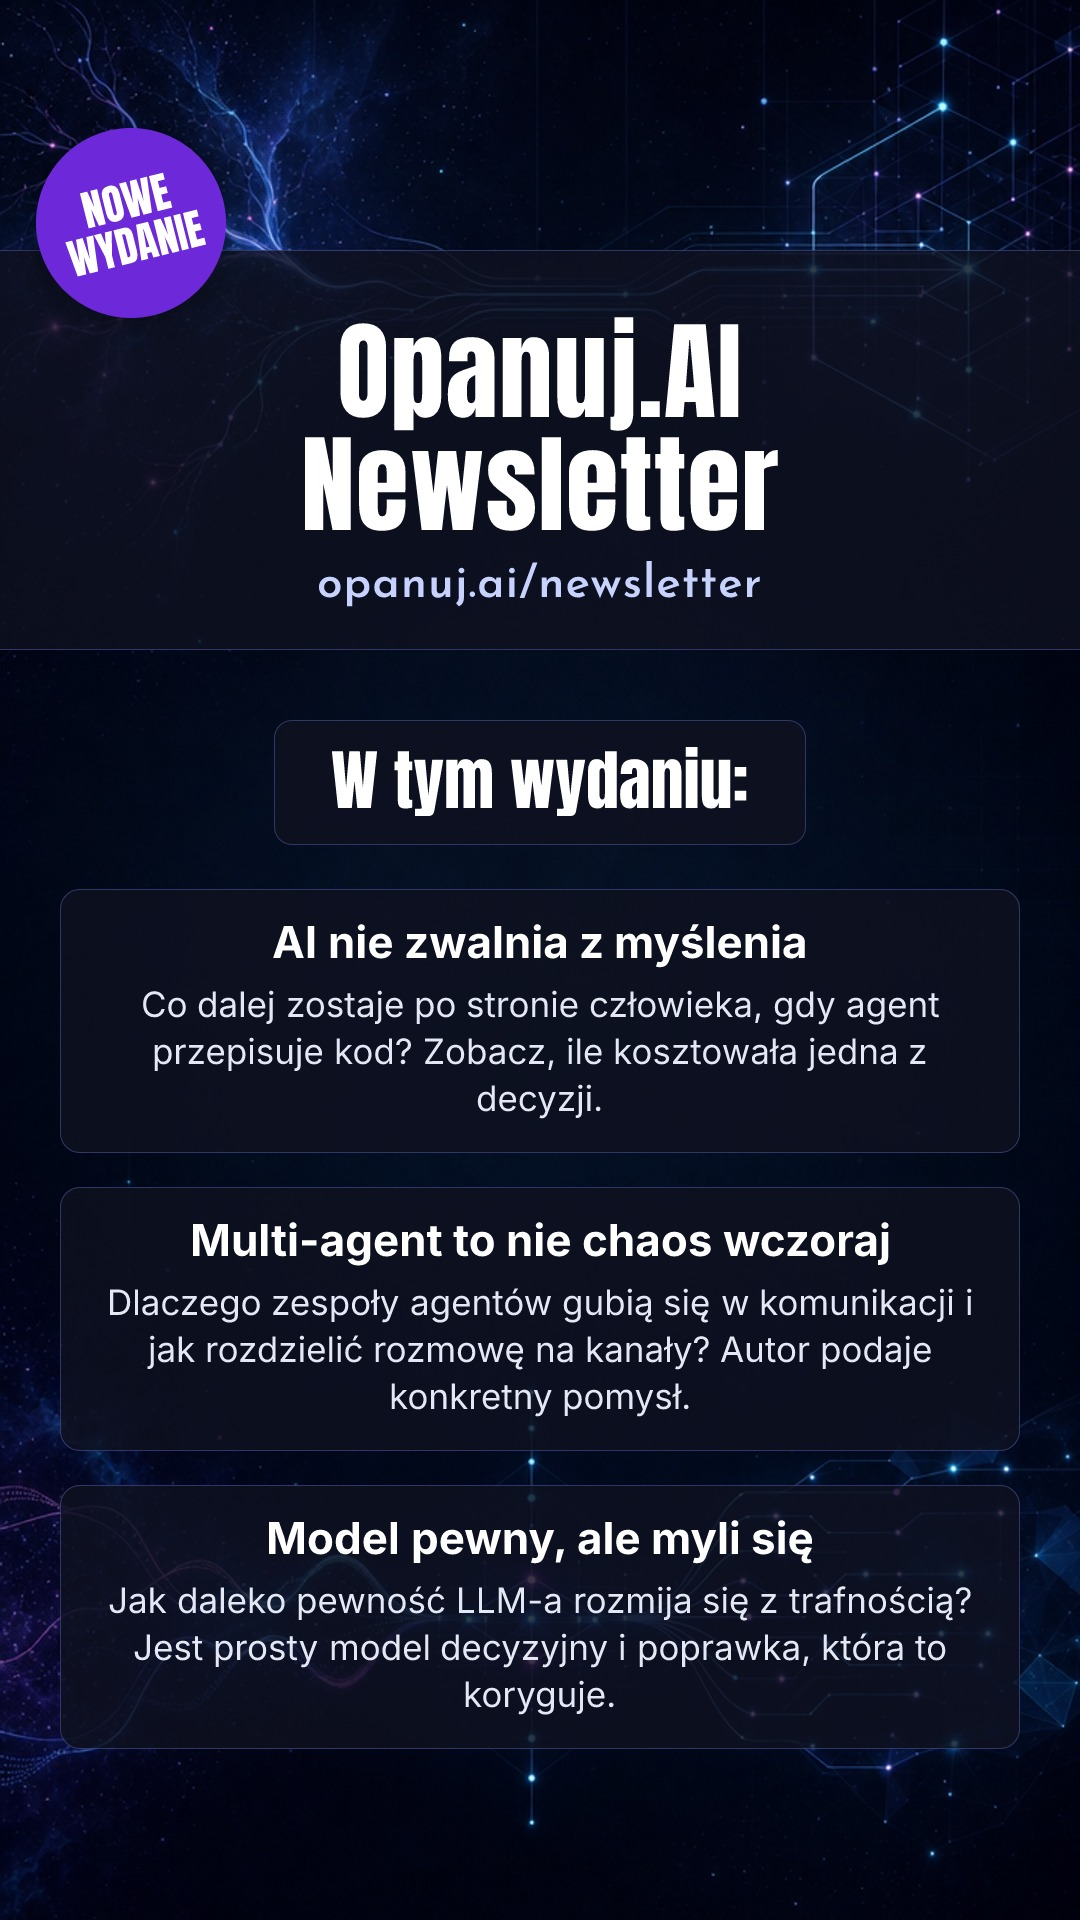
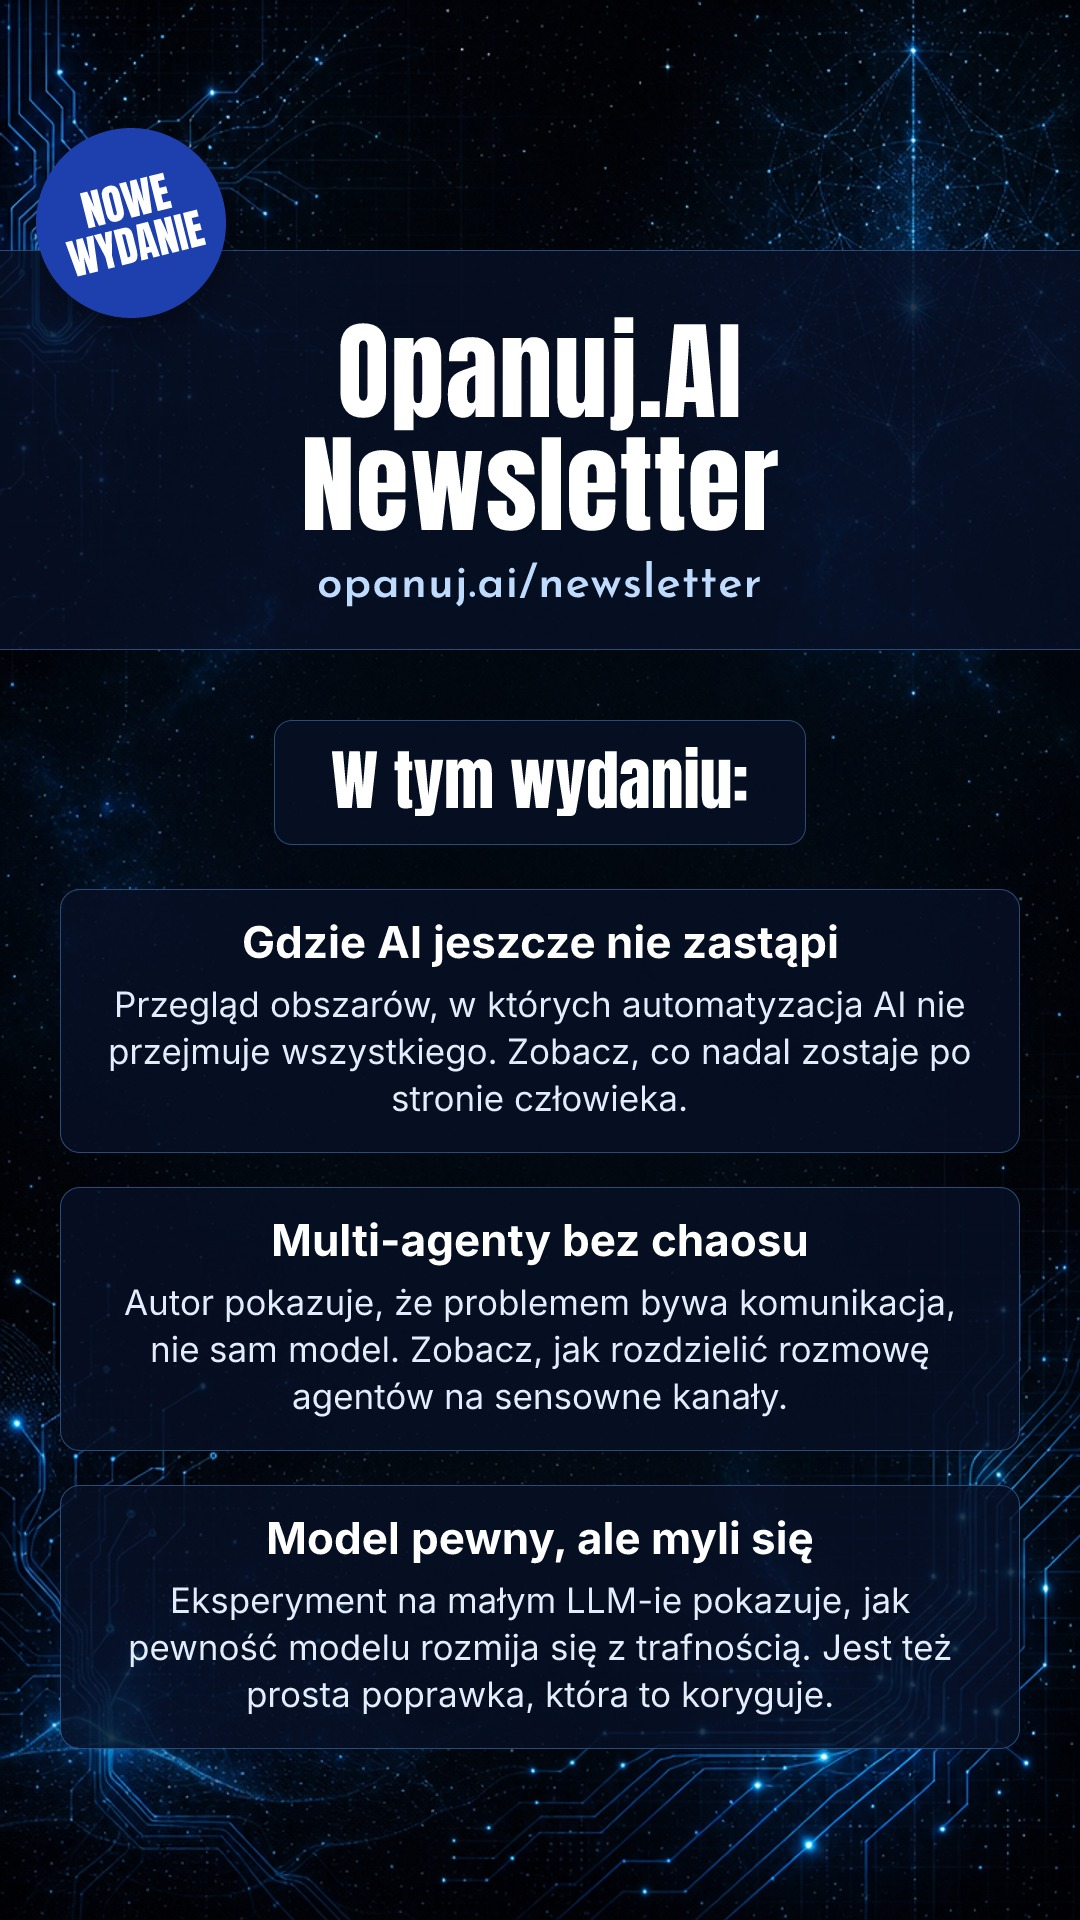
feat: per-newsletter palettes — Przeprogramowani red, Opanuj.AI blue
Brand config now drives panel/accent/URL/body-text colours and the background
prompt's style. Background cache is keyed by the style hash so palette changes
regenerate automatically.

diff --git a/AGENTS.md b/AGENTS.md
@@ -21,13 +21,13 @@ GitHub Action: commit image ─▶ raw.githubusercontent.com URL ─▶ publishS
 
 | Path | Responsibility |
 |---|---|
-| `src/newsletters.mjs` | **The only per-newsletter place**: source, `brand` (headline lines, URL, badge/accent colours), editorial `voice` for the lead writer, which IG account env var to post with. |
+| `src/newsletters.mjs` | **The only per-newsletter place**: source, `brand` (headline lines, URL, palette: badge/panel/accent/URL/body-text colours and the background prompt's `backgroundStyle` — Przeprogramowani is red, Opanuj.AI blue), editorial `voice` for the lead writer, which IG account env var to post with. |
 | `src/sources/substack.mjs` (RSS → JSON API fallback), `rss.mjs`, `mailerlite.mjs`; `src/http.mjs` (browser-like fetch + retries) | Return the latest issue as `{ id, title, subtitle, link, text, publishedAt }`. `text` is the full issue as plain text — the lead writer depends on it. `id` must be stable (dedupe key). |
 | `src/leads.mjs` | Text model (`TEXT_MODEL`, default `openai/gpt-5.4-mini`) → exactly 3 `{ title ≤40, text ≤140 chars }` in Polish, JSON mode. |
 | `src/background.mjs` | Image model (`IMAGE_MODEL`, default `openai/gpt-5.4-image-2`) → dark tech/space 9:16 background, **no text**. |
 | `src/layout.mjs` | The template: "NOWE WYDANIE" badge, header band (headline + URL), "W tym wydaniu:" pill, 3 lead cards. Satori + bundled fonts in `assets/fonts/`. |
 | `src/instagram.mjs` | Graph API: create `STORIES` container from a public JPEG URL → poll → `media_publish`. |
-| `src/cache.mjs` | Per-issue cache of the paid steps (`leads.json`, `background.png`) in `.cache/<newsletter>/<issue-hash>/`, persisted across runs with `actions/cache` (restore newest `story-<newsletter>-*`, save under the run id, even on failure). Only the current issue is kept. `FRESH=1` / the `fresh` input bypasses it. |
+| `src/cache.mjs` | Per-issue cache of the paid steps (`leads.json`, `background.png`) in `.cache/<newsletter>/<issue-hash>/`, persisted across runs with `actions/cache` (restore newest `story-<newsletter>-*`, save under the run id, even on failure). Only the current issue is kept. The background file is keyed by a hash of `brand.backgroundStyle`, so palette changes regenerate automatically. `FRESH=1` / the `fresh` input bypasses it. |
 | `src/cli.mjs` | `generate <newsletter>` / `publish <newsletter> <url>`; writes `stories/<key>/<date>-<slug>.jpg` + `.pending.json`; records published issues in `published.json`. |
 | `relay/` | Cloudflare Worker (`przeprogramowani-feed-relay`, account <private>) relaying allow-listed feeds — Substack serves GitHub runners a Cloudflare challenge. Deploy: `cd relay && npx wrangler@latest deploy` (Node 22). |
 | `.github/workflows/story.yml` | Reusable pipeline (gate → generate → artifact → commit → publish → record). |
